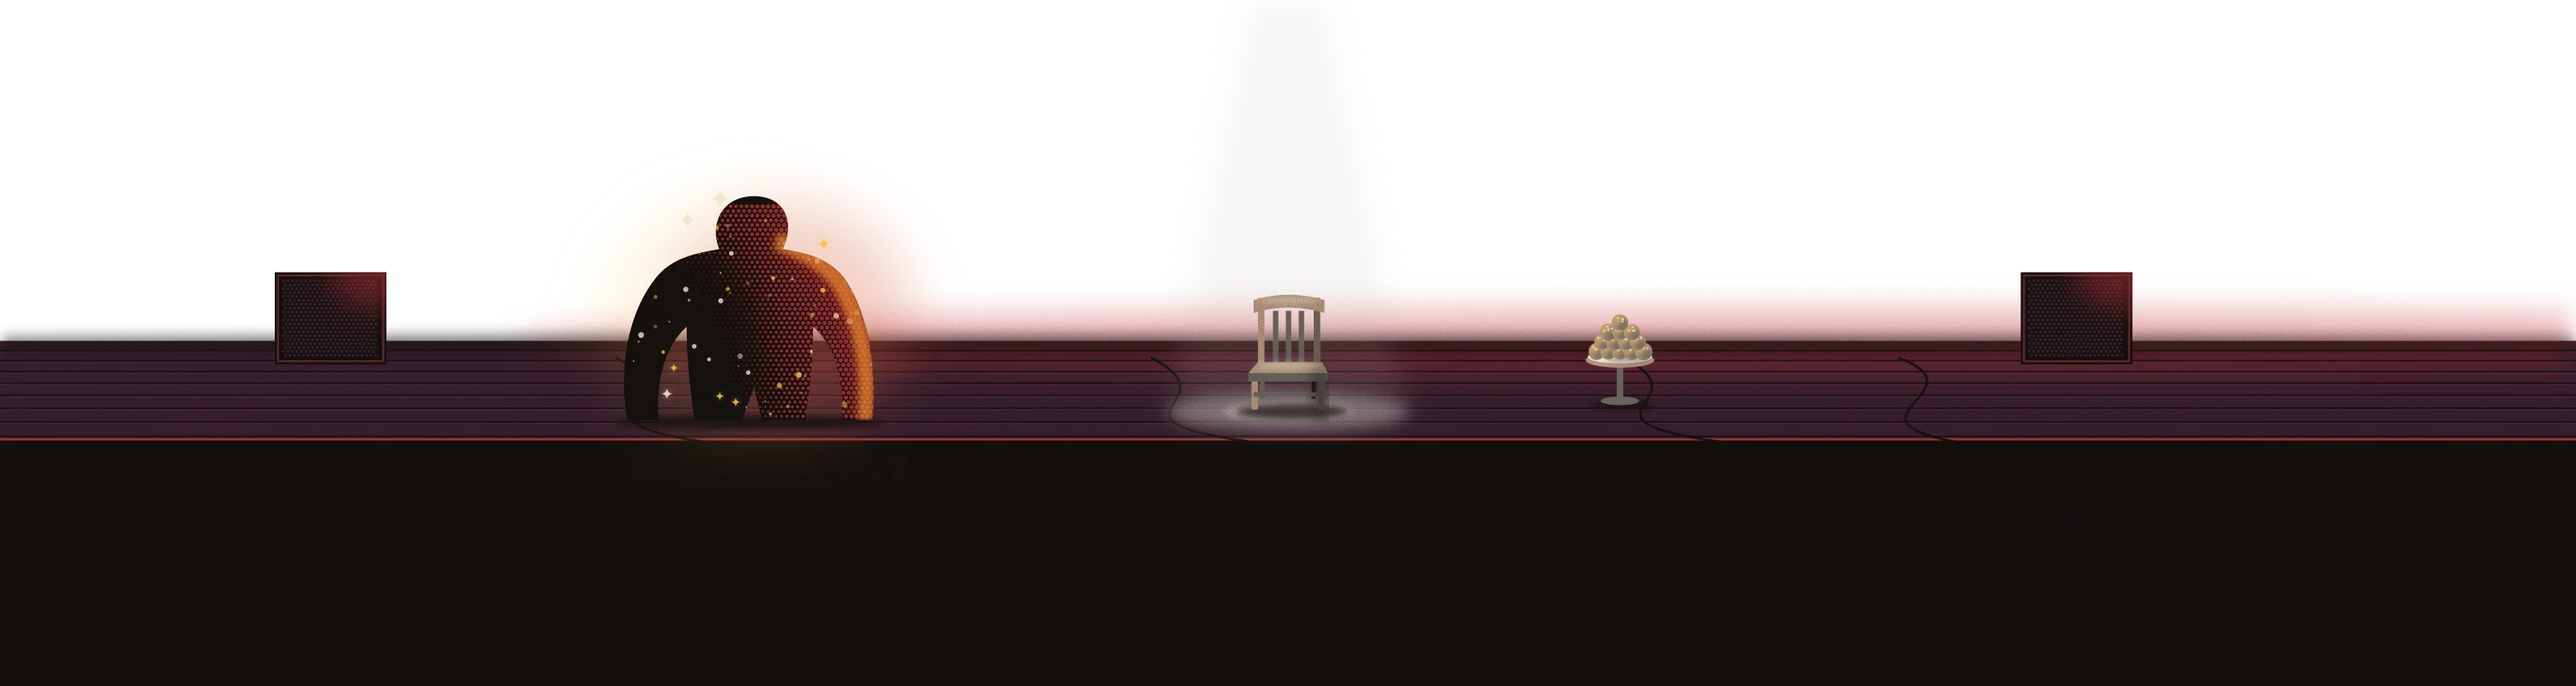
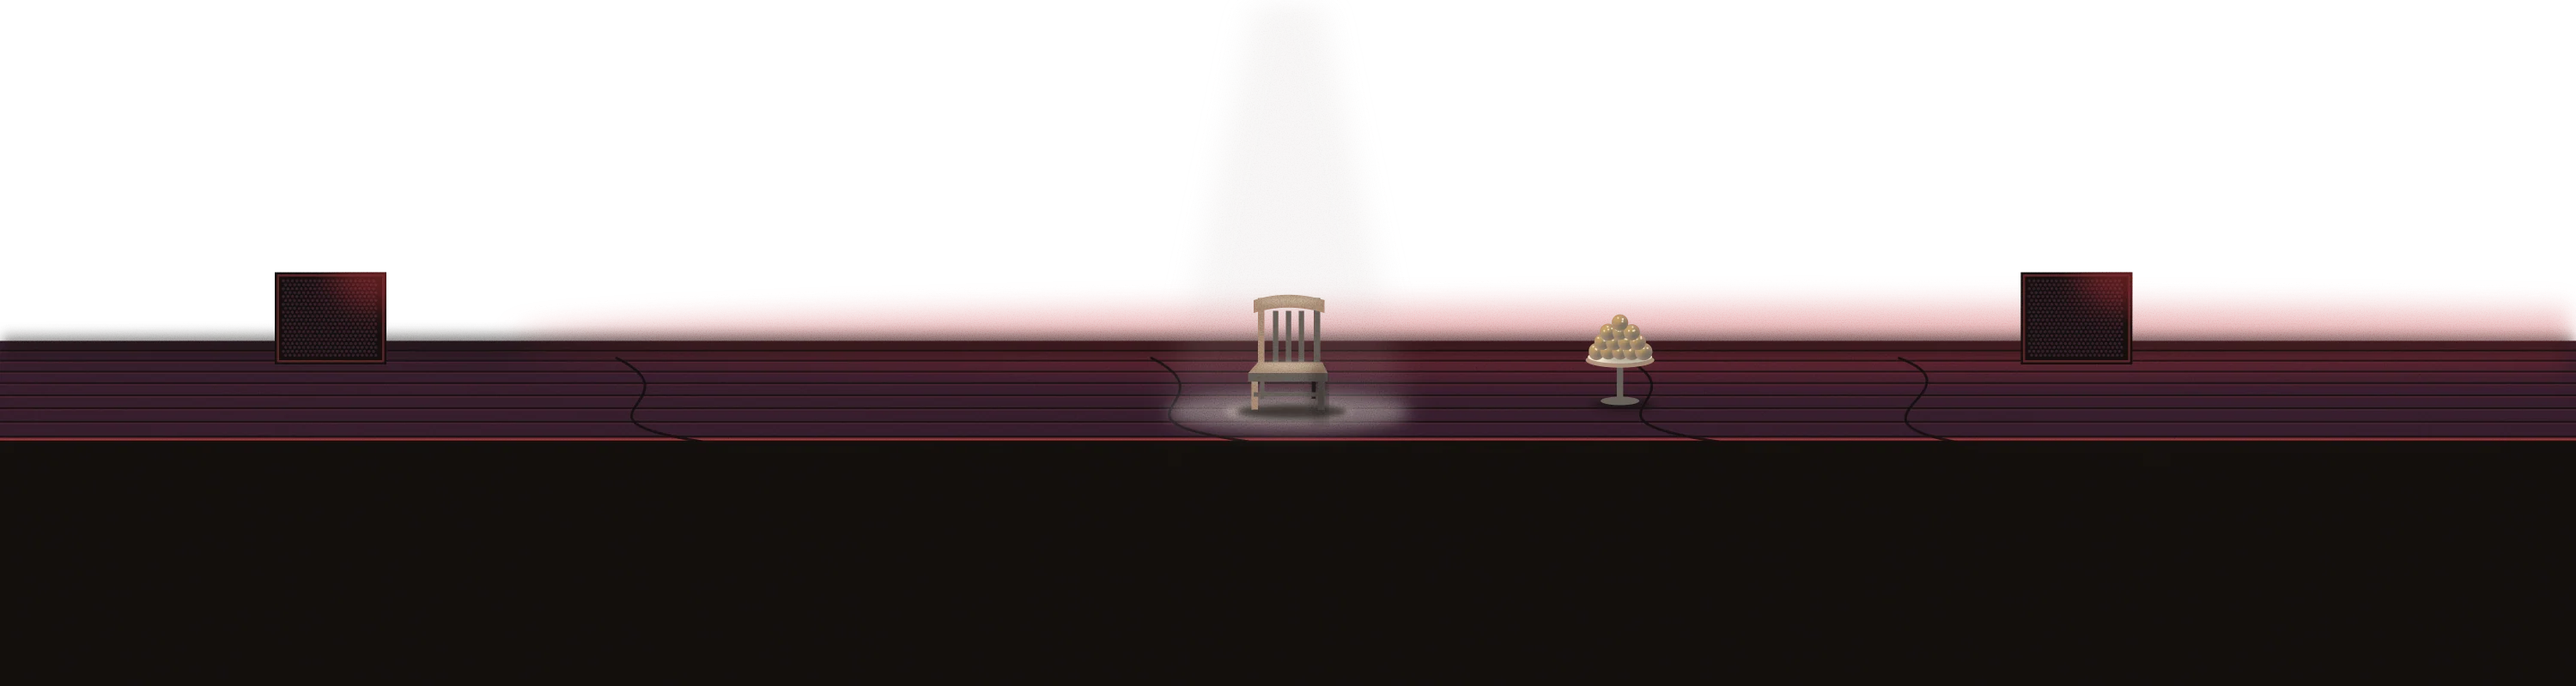
El galpón deja de pintar a la bestia pop: ahora se para el títere
Se borra el bulto encorvado de galponPiso y se reimprimen el piso del recinto y
el del camino.

Changed region(s): [[0.217, 0.2812, 0.372, 0.625]]

diff --git a/src/lib/bestiario/arte-entornos.ts b/src/lib/bestiario/arte-entornos.ts
@@ -144,7 +144,8 @@ function vetas(x0: number, y0: number, x1: number, y1: number, cuantas: number, 
    ------------------------------------------------------------------
    Un galpón de chapa de noche, con las cabriadas recortadas contra una luz roja que revienta
    arriba a la derecha, como en la tapa de *En directo*. De fondo del escenario cuelga un disco; en
-   el tablado, una silla vacía bajo el seguidor, la fuente de buñuelos y la bestia pop, que brilla.
+   el tablado, una silla vacía bajo el seguidor y la fuente de buñuelos; a la izquierda se para la
+   bestia pop, que es un títere aparte (`arte-bestia-pop.ts`).
    Adelante, la gente de espaldas, impresa en trama de puntos, con una bengala.
 */
 
@@ -311,49 +312,8 @@ function fuenteDeBunuelos(x: number, piso: number): string {
   );
 }
 
-/**
- * La bestia pop: un bicho grande, encorvado, con los brazos largos hasta el piso y sin cara fija.
- * Brilla: lentejuelas adentro, el canto prendido por el reflector y un halo afuera.
- */
-function bestiaPop(x: number, piso: number, alto: number): string {
-  const a = alto;
-  const p = (dx: number, dy: number): string => `${f(x + dx * a)} ${f(piso - dy * a)}`;
-  const cuerpo =
-    `M${p(-0.6, 0)} C${p(-0.64, 0.2)} ${p(-0.62, 0.5)} ${p(-0.46, 0.7)} ` +
-    `C${p(-0.38, 0.8)} ${p(-0.26, 0.82)} ${p(-0.15, 0.84)} C${p(-0.2, 0.96)} ${p(-0.14, 1.1)} ${p(0.02, 1.1)} ` +
-    `C${p(0.18, 1.1)} ${p(0.22, 0.96)} ${p(0.16, 0.84)} C${p(0.27, 0.82)} ${p(0.38, 0.8)} ${p(0.46, 0.7)} ` +
-    `C${p(0.6, 0.5)} ${p(0.62, 0.2)} ${p(0.6, 0)} L${p(0.45, 0)} C${p(0.46, 0.2)} ${p(0.42, 0.36)} ${p(0.31, 0.46)} ` +
-    `C${p(0.31, 0.3)} ${p(0.29, 0.12)} ${p(0.27, 0)} L${p(0.06, 0)} L${p(0.02, 0.16)} L${p(-0.04, 0)} L${p(-0.27, 0)} ` +
-    `C${p(-0.29, 0.12)} ${p(-0.31, 0.3)} ${p(-0.31, 0.46)} C${p(-0.42, 0.36)} ${p(-0.46, 0.2)} ${p(-0.45, 0)} Z`;
-  const rnd = azar(43);
-  let lentejuelas = '';
-  for (let i = 0; i < 70; i++) {
-    const px = x - a * 0.6 + rnd() * a * 1.2;
-    const py = piso - rnd() * a;
-    lentejuelas += `<circle cx="${f(px)}" cy="${f(py)}" r="${f(0.8 + rnd() * 2)}" fill="${rnd() < 0.5 ? G.oro : G.papel}" opacity="${f(0.25 + rnd() * 0.6)}"/>`;
-  }
-  let chispas = '';
-  for (let i = 0; i < 8; i++) {
-    const ang = rnd() * Math.PI * 2;
-    const d = a * (0.6 + rnd() * 0.2);
-    chispas += chispa(x + Math.cos(ang) * d * 0.85, piso - a * 0.55 + Math.sin(ang) * d * 0.7, 3 + rnd() * 6, rnd() < 0.6 ? G.oro : G.papel, 0.85);
-  }
-  // El canto que mira al reflector: el hombro y el brazo derechos, prendidos.
-  const canto = `M${p(0.14, 0.92)} C${p(0.26, 0.86)} ${p(0.38, 0.84)} ${p(0.46, 0.72)} C${p(0.6, 0.5)} ${p(0.62, 0.2)} ${p(0.6, 0)} L${p(0.53, 0)} C${p(0.55, 0.22)} ${p(0.52, 0.48)} ${p(0.4, 0.66)} C${p(0.32, 0.76)} ${p(0.22, 0.8)} ${p(0.12, 0.84)} Z`;
-  return (
-    nube(x, piso - a * 0.5, a * 0.75, a * 0.62, G.oro, 'xl', 0.12) +
-    nube(x + a * 0.2, piso - a * 0.5, a * 0.6, a * 0.55, G.rojo, 'xl', 0.2) +
-    nube(x, piso + 2, a * 0.66, 7, G.negro, 's', 0.8) +
-    enmascarado('g-bestia-pop', cuerpo,
-      forma(cuerpo, G.negro) +
-      trama(x - a * 0.7, piso - a * 1.05, x + a * 0.7, piso, 5, (px, py) => 0.05 + ((px - x) / a) * 0.8 + ((piso - py) / a) * 0.35, G.rojo, 0.7) +
-      nube(x - a * 0.25, piso - a * 0.35, a * 0.3, a * 0.5, G.negro, 'l', 0.75) +
-      lentejuelas +
-      soplo(canto, G.oro, 's', 0.55) +
-      soplo(canto, G.vivo, 'm', 0.35)) +
-    chispas
-  );
-}
+// La bestia pop ya no se pinta acá: desde la decimoquinta vuelta es un títere de papel que se para
+// en el tablado (`arte-bestia-pop.ts`, `elenco.ts`). El galpón le deja libre el lugar de `GALPON.bestiaPop`.
 
 /** Un bafle sobre el tablado: la caja negra y la tela de la reja, con el canto prendido. */
 function bafle(x: number, piso: number, w: number, h: number, id: string): string {
@@ -396,7 +356,6 @@ function galponPiso(ancho = ANCHO, alto = ALTO): string {
     nube(sx, s.piso + 2, 112, 18, G.luz, 'm', 0.5) +
     nube(sx, s.piso + 2, 60, 9, G.papel, 's', 0.35) +
     `</g>` +
-    bestiaPop(GALPON.bestiaPop.x * k, GALPON.bestiaPop.piso, GALPON.bestiaPop.alto) +
     silla(sx, s.piso) +
     fuenteDeBunuelos(GALPON.fuente.x * k, GALPON.fuente.piso)
   );
